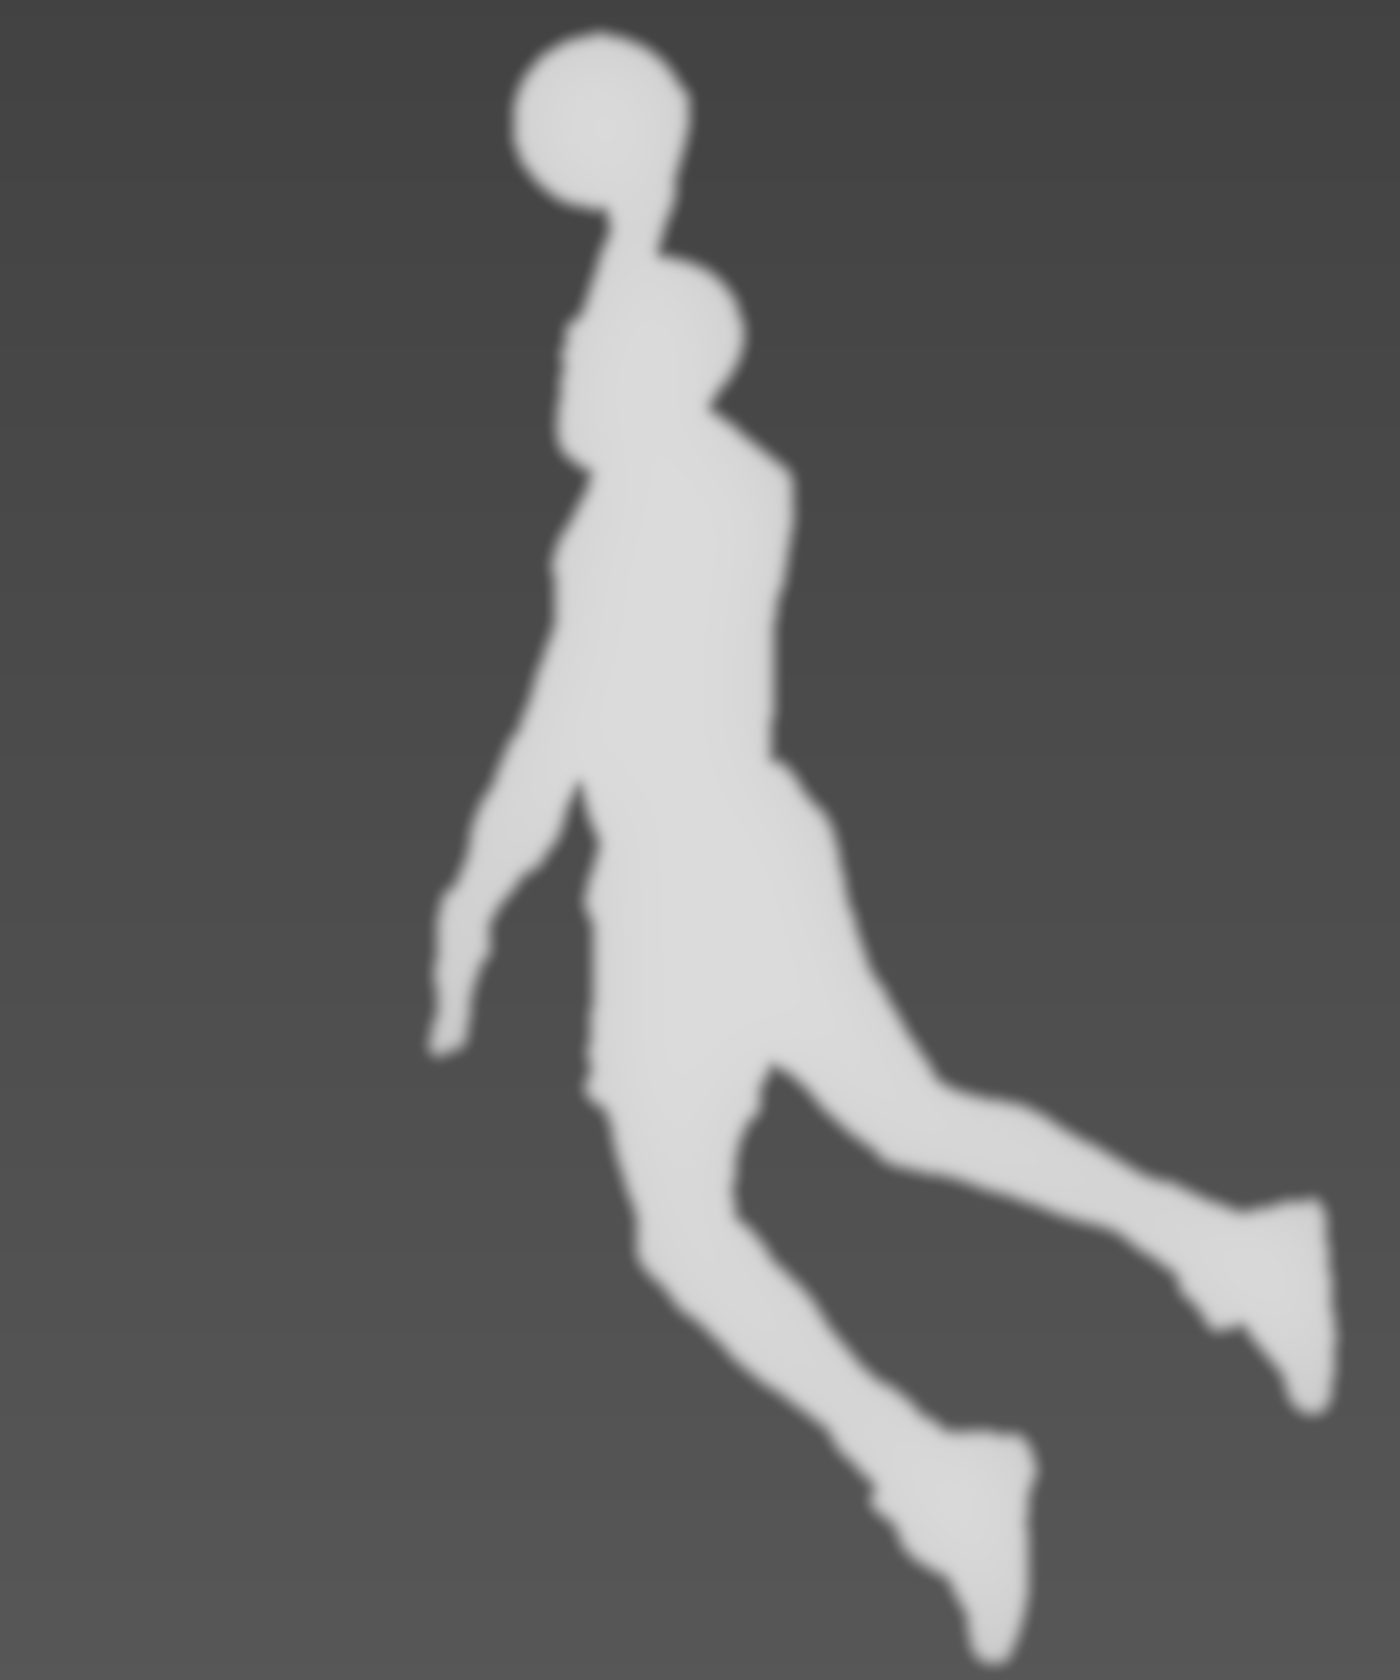
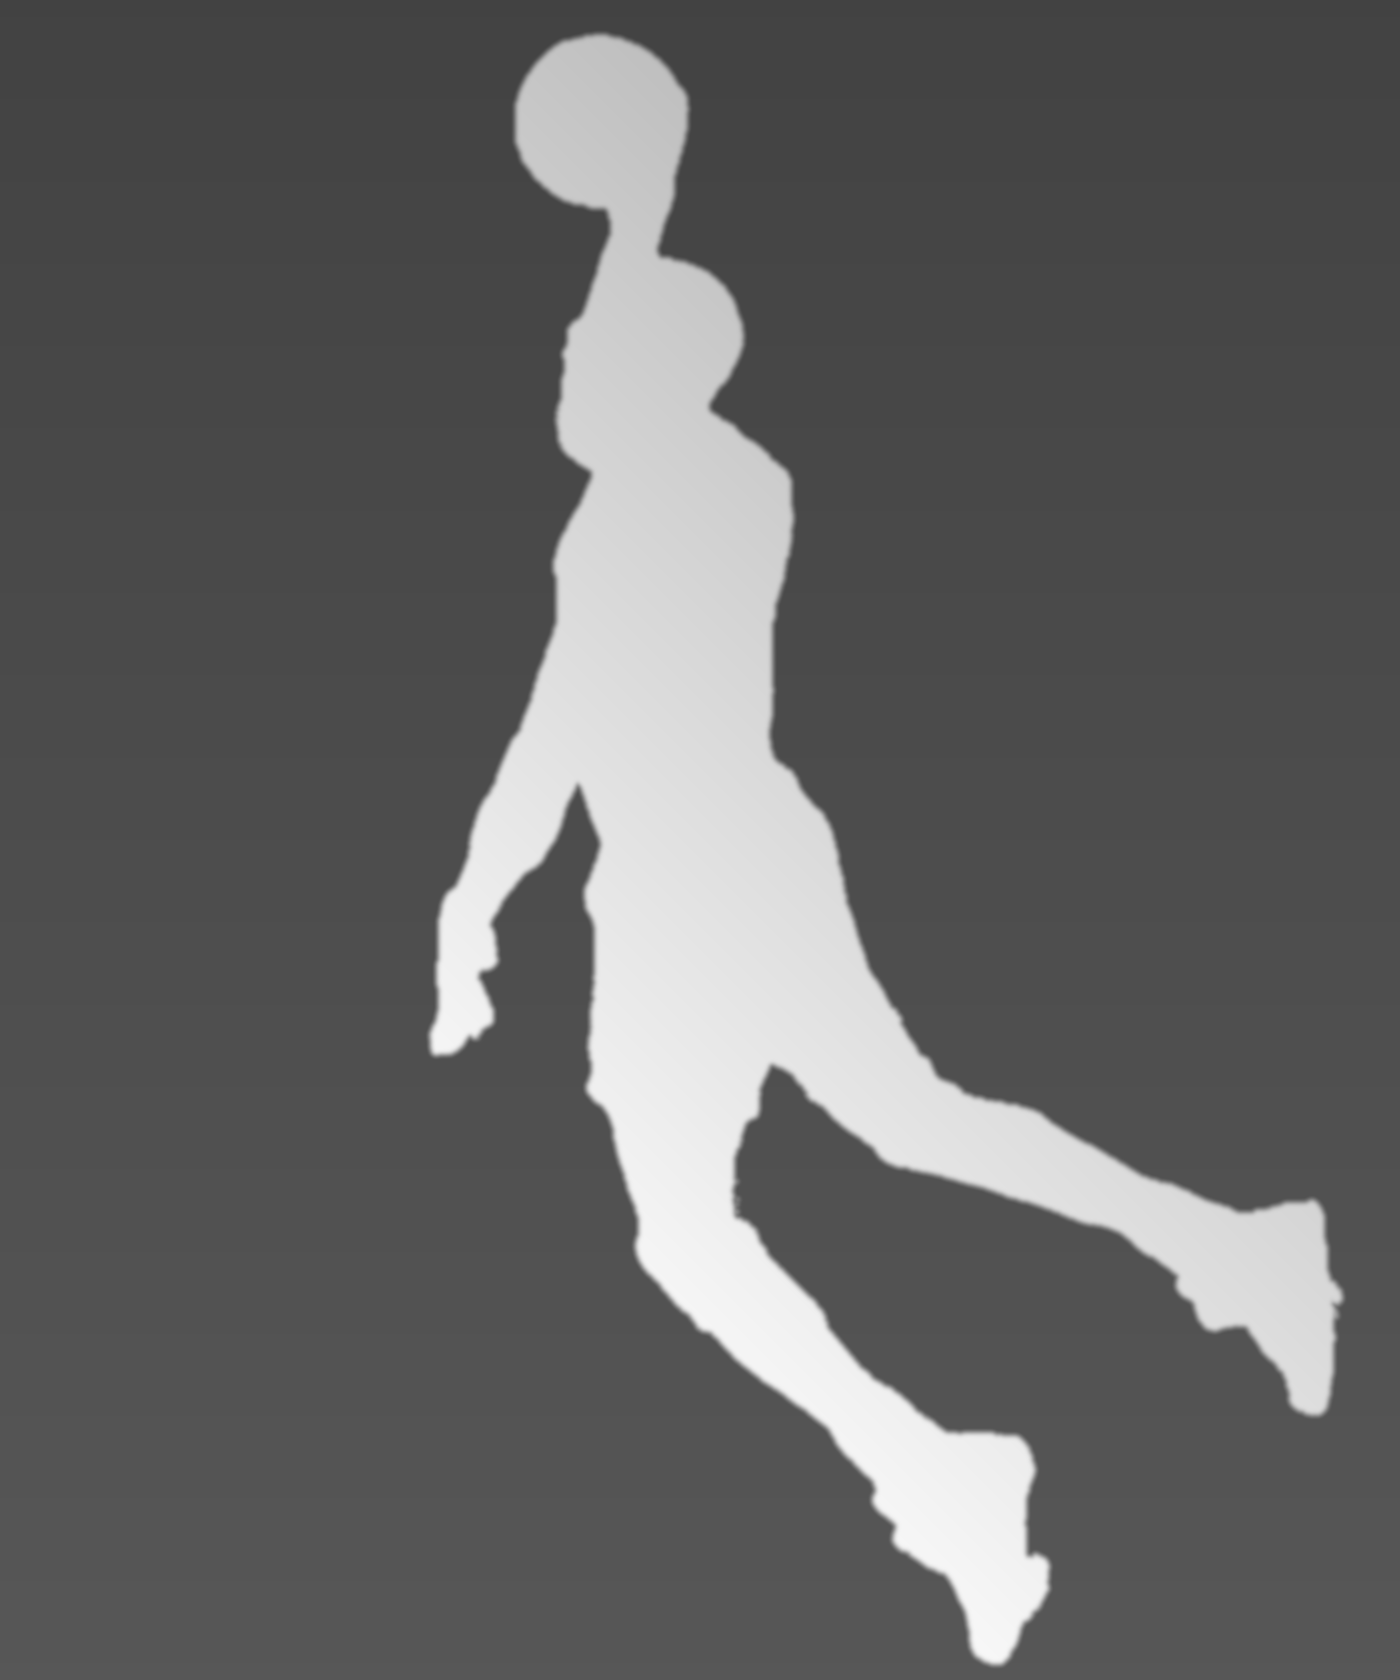
Keep fine features crisp and give the near limb its own depth
Two artefacts around the foreground figure, one root cause each.

Detail around the nose and mouth was washed out: the relief term ramped depth
over ~36 px at the silhouette, far wider than the features it was crossing.
Relief now defaults to 0 and feather drops to 2 px, so the depth edge tracks
the profile — measured, the face transition narrows from ~36 px to ~21 px, and
that is across a steep diagonal, so perpendicular it is tighter still.

The outstretched hand read as stiff because relief pushes *thin* regions
backward, placing the nearest thing in shot behind the chest. Added --tilt, a
linear depth spread across the hero with --tilt-deg naming the nearer
direction. At 0.22/135 the hand sits at 0.945 against 0.839 for the torso and
travels ~30% further; a correlation shift map over the frame confirms clusters
at +30/+40 (background), -60/-70 (body) and -80/-90 (hand).

Also added --hero-fill, which accepts person-segmentation pixels only within a
radius of the instance matte, recovering thin extremities Vision drops without
pulling in the other player.

diff --git a/tools/DepthFromMatte.swift b/tools/DepthFromMatte.swift
@@ -35,8 +35,12 @@ var input = "", output = "", matteOut = ""
 var near: Float = 0.86         // subject depth
 var bgTop: Float = 0.06        // background at the top of the frame
 var bgBottom: Float = 0.42     // background at the bottom
-var relief: Float = 0.12       // how much the subject rounds off toward its edge
-var feather: Float = 5.0       // matte edge softening, in pixels
+var relief: Float = 0          // subject edge rounding; 0 keeps fine detail crisp
+var feather: Float = 2.0       // matte edge softening, in pixels
+var heroFill: Float = 70       // px reach for recovering thin bits Vision missed
+var heroThresh: Float = 0.55   // person-mask value that counts as the hero
+var tilt: Float = 0            // depth spread across the subject; 0 = flat cutout
+var tiltDeg: Float = 135       // direction that gets *nearer*; y counts downward
 var mid: Float = 0.55          // depth for secondary figures
 var midLo: Float = 0.25        // person-mask value where a secondary figure starts
 var midHi: Float = 0.60        // ...and where it counts fully. Below midLo = crowd.
@@ -58,6 +62,10 @@ while let flag = args.first {
   case "--bg-top":   bgTop = Float(value()) ?? bgTop
   case "--bg-bottom": bgBottom = Float(value()) ?? bgBottom
   case "--relief":   relief = Float(value()) ?? relief
+  case "--hero-fill":   heroFill = Float(value()) ?? heroFill
+  case "--hero-thresh": heroThresh = Float(value()) ?? heroThresh
+  case "--tilt":     tilt = Float(value()) ?? tilt
+  case "--tilt-deg": tiltDeg = Float(value()) ?? tiltDeg
   case "--feather":  feather = Float(value()) ?? feather
   case "--mid":      mid = Float(value()) ?? mid
   case "--mid-lo":   midLo = Float(value()) ?? midLo
@@ -87,7 +95,7 @@ persons.qualityLevel = .accurate
 persons.outputPixelFormat = kCVPixelFormatType_OneComponent8
 
 do {
-  try handler.perform(usePersons ? [request, persons] : [request])
+  try handler.perform(usePersons || heroFill > 0 ? [request, persons] : [request])
 } catch { fail("Vision failed: \(error)") }
 
 guard let observation = request.results?.first, !observation.allInstances.isEmpty else {
@@ -123,6 +131,17 @@ func greyBytes(_ image: CIImage) -> [UInt8] {
   return bytes
 }
 
+/// Wraps an 8-bit grey buffer back up as a CIImage so it can be blurred.
+func ciFromGrey(_ bytes: [UInt8]) -> CIImage {
+  guard let provider = CGDataProvider(data: Data(bytes) as CFData),
+        let cg = CGImage(width: W, height: H, bitsPerComponent: 8, bitsPerPixel: 8,
+                         bytesPerRow: W, space: grey,
+                         bitmapInfo: CGBitmapInfo(rawValue: CGImageAlphaInfo.none.rawValue),
+                         provider: provider, decode: nil, shouldInterpolate: false,
+                         intent: .defaultIntent) else { fail("could not wrap mask") }
+  return CIImage(cgImage: cg)
+}
+
 let maskImage = CIImage(cvPixelBuffer: maskBuffer)
   .transformed(by: CGAffineTransform(
     scaleX: CGFloat(W) / CGFloat(CVPixelBufferGetWidth(maskBuffer)),
@@ -138,10 +157,44 @@ func blurred(_ image: CIImage, _ radius: Float) -> CIImage {
   return out.cropped(to: CGRect(x: 0, y: 0, width: W, height: H))
 }
 
-let matte = greyBytes(blurred(maskImage, feather))
+// The instance matte loses thin, low-contrast extremities: on the Jordan frame
+// it drops his outstretched fingers entirely, which then sit at background
+// depth and parallax *against* the arm they belong to.
+//
+// Person segmentation does resolve them, but it also lights up the crowd and
+// the other player, so it cannot simply be unioned in. Instead it is accepted
+// only within `heroFill` px of the instance matte: a gap adjacent to the hero
+// gets filled, while a second figure a few hundred px away never qualifies.
+let instanceRaw = greyBytes(maskImage)
+var heroUnion = [UInt8](repeating: 0, count: W * H)
+
+if heroFill > 0, let pObs = persons.results?.first {
+  let pci = CIImage(cvPixelBuffer: pObs.pixelBuffer)
+  let personRaw = greyBytes(pci.transformed(by: CGAffineTransform(
+    scaleX: CGFloat(W) / pci.extent.width, y: CGFloat(H) / pci.extent.height)))
+
+  // Blurring the matte and taking anything non-trivial approximates "within
+  // heroFill px of the hero".
+  let nearHero = greyBytes(blurred(maskImage, heroFill / 1.5))
+  var recovered = 0
+  for i in 0..<(W * H) {
+    let isHero = instanceRaw[i] >= 128
+    let adjacent = nearHero[i] >= 13 && Float(personRaw[i]) / 255.0 >= heroThresh
+    heroUnion[i] = (isHero || adjacent) ? 255 : 0
+    if !isHero && adjacent { recovered += 1 }
+  }
+  FileHandle.standardError.write(
+    String(format: "hero fill recovered %.2f%% of frame\n",
+           Double(recovered) / Double(W * H) * 100).data(using: .utf8)!)
+} else {
+  for i in 0..<(W * H) { heroUnion[i] = instanceRaw[i] >= 128 ? 255 : 0 }
+}
+
+let heroImage = ciFromGrey(heroUnion)
+let matte = greyBytes(blurred(heroImage, feather))
 // Stand-in for a distance transform: blur wide enough that only the interior
-// stays saturated.
-let mound = greyBytes(blurred(maskImage, Float(max(W, H)) / 40.0))
+// stays saturated. Only consulted when relief > 0.
+let mound = greyBytes(blurred(heroImage, Float(max(W, H)) / 40.0))
 
 // Secondary figures — opt-in, and read the caveat below before using it.
 //
@@ -158,7 +211,7 @@ let mound = greyBytes(blurred(maskImage, Float(max(W, H)) / 40.0))
 // stops — mid-torso here. For a figure the mask only half-finds, leaving this
 // off and letting them ride the background ramp reads cleaner.
 var personMask: [UInt8]? = nil
-if let pObs = persons.results?.first {
+if usePersons, let pObs = persons.results?.first {
   let pci = CIImage(cvPixelBuffer: pObs.pixelBuffer)
   let scaled = pci.transformed(by: CGAffineTransform(
     scaleX: CGFloat(W) / pci.extent.width, y: CGFloat(H) / pci.extent.height))
@@ -169,16 +222,35 @@ if let pObs = persons.results?.first {
   var solid = [UInt8](repeating: 0, count: W * H)
   for i in 0..<(W * H) { solid[i] = Float(grown[i]) / 255.0 >= midLo ? 255 : 0 }
 
-  guard let provider = CGDataProvider(data: Data(solid) as CFData),
-        let solidCG = CGImage(width: W, height: H, bitsPerComponent: 8, bitsPerPixel: 8,
-                              bytesPerRow: W, space: grey,
-                              bitmapInfo: CGBitmapInfo(rawValue: CGImageAlphaInfo.none.rawValue),
-                              provider: provider, decode: nil, shouldInterpolate: false,
-                              intent: .defaultIntent) else { fail("could not build mask") }
-  personMask = greyBytes(blurred(CIImage(cgImage: solidCG), radius * 0.5))
+  personMask = greyBytes(blurred(ciFromGrey(solid), radius * 0.5))
 }
 
 // ------------------------------------------------------------- compose depth
+
+// A matte carries no depth *within* the subject, so a flat cutout makes every
+// part of a figure travel identically — an outstretched hand moves exactly like
+// the chest behind it and the limb reads as stiff. `tilt` spreads depth linearly
+// across the subject so a chosen direction sits nearer.
+//
+// This is an authored approximation, not measured depth: it says "this end of
+// him is closer", which for a single limb reaching toward the lens is enough to
+// sell the movement. It cannot know that a wrist bends. Off by default.
+var tiltAxis = (x: Float(0), y: Float(0))
+var tiltMin = Float.greatestFiniteMagnitude
+var tiltMax = -Float.greatestFiniteMagnitude
+
+if tilt != 0 {
+  let rad = tiltDeg * Float.pi / 180
+  tiltAxis = (x: cos(rad), y: sin(rad))
+  for y in 0..<H {
+    for x in 0..<W where heroUnion[y * W + x] > 127 {
+      let p = Float(x) * tiltAxis.x + Float(y) * tiltAxis.y
+      tiltMin = min(tiltMin, p)
+      tiltMax = max(tiltMax, p)
+    }
+  }
+}
+let tiltSpan = max(tiltMax - tiltMin, 1)
 
 func smoothstep(_ a: Float, _ b: Float, _ x: Float) -> Float {
   guard b > a else { return x < a ? 0 : 1 }
@@ -197,7 +269,11 @@ for y in 0..<H {
     let i = y * W + x
     let m = Float(matte[i]) / 255.0
     let interior = Float(mound[i]) / 255.0
-    let subject = near - relief * (1.0 - interior)
+    var subject = near - relief * (1.0 - interior)
+    if tilt != 0 {
+      let p = Float(x) * tiltAxis.x + Float(y) * tiltAxis.y
+      subject += tilt * ((p - tiltMin) / tiltSpan - 0.5)
+    }
 
     var d = bg
     if let pm = personMask {
@@ -238,4 +314,6 @@ let secondary = Double(secondaryPixels) / Double(W * H) * 100
 let centroid = subjectPixels > 0 ? Double(sumY) / Double(subjectPixels) / Double(H) : 0
 print(String(format: "%dx%d  subject %.1f%% of frame (centroid %.2f down), secondary figures %.1f%%",
              W, H, coverage, centroid, secondary))
+print(String(format: "near %.2f, tilt %.2f @ %.0f deg, relief %.2f, feather %.1f px",
+             near, tilt, tiltDeg, relief, feather))
 print("wrote \(output)" + (matteOut.isEmpty ? "" : " and \(matteOut)"))

diff --git a/README.md b/README.md
@@ -68,17 +68,33 @@ With no files at all it falls back to a synthetic test scene
 
 ```bash
 ./tools/make_depth.sh --in assets/Jordan_Dunk.jpg --out assets/depth.png \
-  --matte grabs/matte.png --bg-top 0.26 --bg-bottom 0.34
+  --matte grabs/matte.png --bg-top 0.26 --bg-bottom 0.34 \
+  --tilt 0.22 --tilt-deg 135
 ```
 
 This runs entirely on this machine — the image is never uploaded. It uses
 Apple's Vision framework, which gives *mattes*, not depth, so depth is composed
 from two of them:
 
-- **Foreground instance matte** → the hero subject, placed at `--near` (0.86)
-  and rounded slightly toward its silhouette so it does not read as a flat
-  card. A heavily blurred copy of the matte stands in for a distance
-  transform.
+- **Foreground instance matte** → the hero subject, placed at `--near` (0.86).
+  Thin, low-contrast extremities get dropped by this matte, so `--hero-fill`
+  (70 px) accepts person-segmentation pixels *within that radius of the matte*:
+  a gap adjacent to the hero is filled, while a second figure hundreds of px
+  away never qualifies.
+- **`--tilt`** → depth spread linearly across the hero, `--tilt-deg` naming the
+  direction that gets nearer (135° = toward the lower left, y counting down).
+  A matte carries no depth *within* a subject, so a flat cutout makes an
+  outstretched hand travel exactly like the chest behind it and the limb reads
+  as stiff. At 0.22/135° on this frame the hand sits at 0.945 against 0.839 for
+  the torso, so it moves about 30% further. This is authored, not measured — it
+  says "this end of him is closer", which is enough to sell a limb reaching
+  toward the lens, but it cannot know that a wrist bends.
+- **`--relief`** → rounds the subject toward its silhouette using a wide blur
+  as a stand-in for a distance transform. **Defaults to 0**, because it pushes
+  *thin* features backward — an outstretched hand, physically the nearest thing
+  in shot, ends up further away than the chest. It also washed a ~36 px ramp
+  across the silhouette, which smeared detail as fine as a nose or lips. Only
+  useful on a broad, blobby subject.
 - **Everything else** → a vertical ramp from `--bg-top` to `--bg-bottom`. The
   tool defaults (0.06 → 0.42) suit a scene with a floor receding to a back
   wall. **This frame is not one** — it is a telephoto shot of a crowd *wall* at
@@ -151,7 +167,7 @@ prints the current values in `js/config.js` shape, ready to paste over
 | `crop`      | zoom in so displacement never samples past the plate edge.       |
 | `steps`     | ray-march steps. 24 is the default; below ~12 edges quantise.    |
 | `refine`    | binary steps tightening the hit. 4 is plenty, and cheap.          |
-| `smooth`    | depth blur in texels. 0 by default — the generated map is already pre-softened. Raise it for a map from elsewhere with JPEG steps along its edges. |
+| `smooth`    | depth blur in texels. 0 by default — the generated map is crisp on purpose, and blurring it here is what smears fine features like a nose or lips. Raise it only for a map from elsewhere with JPEG steps along its edges. |
 | `dilate`    | biases edges toward the nearer surface. 0 by default; the march handles occlusion properly now, so this is only a rescue for a bad map. |
 | `stageHeight` | stage height in CSS px. Width follows the plate's aspect ratio, so the stage never letterboxes and never distorts. If it is taller than the window, the page scrolls. |
 | `invert`    | set to 1 for dark-near maps.                                     |
